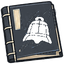
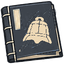
style(art): 将心法秘籍图腾颜色对齐原版宣纸暖黄米棕古色(#edd8b5)

Changed region(s): [[0.3438, 0.25, 0.8125, 0.6875]]

diff --git a/.agents/skills/moss-art/scripts/composite_manuals.py b/.agents/skills/moss-art/scripts/composite_manuals.py
@@ -33,6 +33,9 @@ INTERNAL_CONFIGS = [
     ("xuanyuan-yiqi-gong", "《玄元一气功秘籍》", (32, 36, 42), -7)
 ]
 
+# 原版同款带棕带黄的宣纸象牙古色 (暖黄米棕 #edd8b5: RGB 237, 216, 181)
+IVORY_BUFF = np.array([237, 216, 181], dtype=np.uint8)
+
 def synthesize_all():
     os.makedirs(OUTPUT_DIR, exist_ok=True)
     
@@ -89,11 +92,10 @@ def synthesize_all():
         # 彻底去除所有黑色/暗色像素 (亮度<90或透明的全部变为0透明，绝不留任何黑边或黑底)
         lum_e = (earr[:, :, 0].astype(int) + earr[:, :, 1].astype(int) + earr[:, :, 2].astype(int)) // 3
         is_white = (earr[:, :, 3] > 40) & (lum_e >= 90)
-        
         clean_arr = np.zeros_like(earr)
-        clean_arr[is_white] = [255, 255, 255, 255] # 100% 绝对纯白
+        clean_arr[is_white, :3] = IVORY_BUFF
+        clean_arr[is_white, 3] = 255
         clean_emblem = Image.fromarray(clean_arr)
-        
         # 覆写保存母版，使 art/emblems/ 里的原版也完全纯净
         clean_emblem.save(emblem_path, format="WEBP", lossless=True)
         
@@ -112,7 +114,8 @@ def synthesize_all():
         # 旋转插值保护：确保边缘只有纯白和完全透明，绝无任何黑边/灰边
         rarr = np.array(emblem_rotated)
         rmask = rarr[:, :, 3] > 60
-        rarr[rmask] = [255, 255, 255, 255]
+        rarr[rmask, :3] = IVORY_BUFF
+        rarr[rmask, 3] = 255
         rarr[~rmask] = [0, 0, 0, 0]
         emblem_final = Image.fromarray(rarr)
         
@@ -142,7 +145,8 @@ def synthesize_all():
         frag_rotated = emblem_frag.rotate(int(tilt_angle * 0.75), resample=Image.Resampling.BICUBIC, expand=True)
         frarr = np.array(frag_rotated)
         frmask = frarr[:, :, 3] > 60
-        frarr[frmask] = [255, 255, 255, 255]
+        frarr[frmask, :3] = IVORY_BUFF
+        frarr[frmask, 3] = 255
         frarr[~frmask] = [0, 0, 0, 0]
         emblem_f_final = Image.fromarray(frarr)
         
